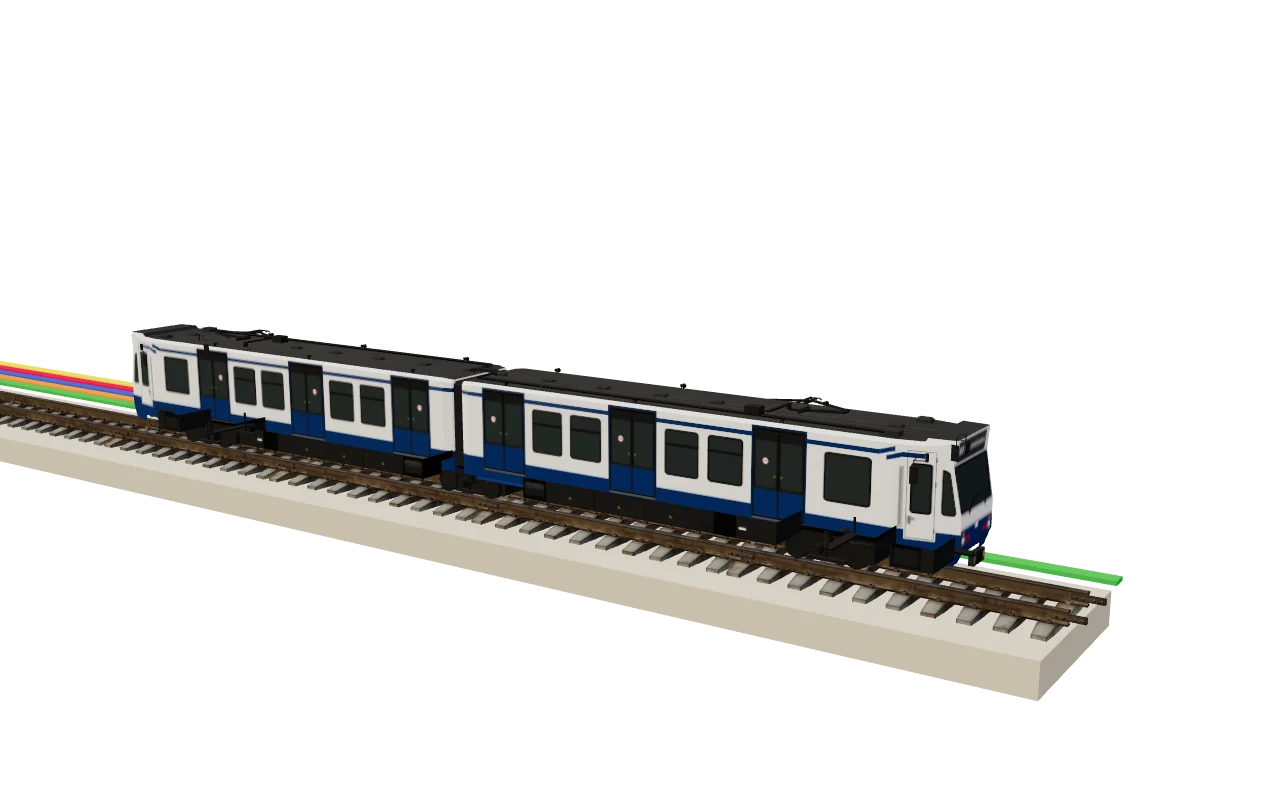
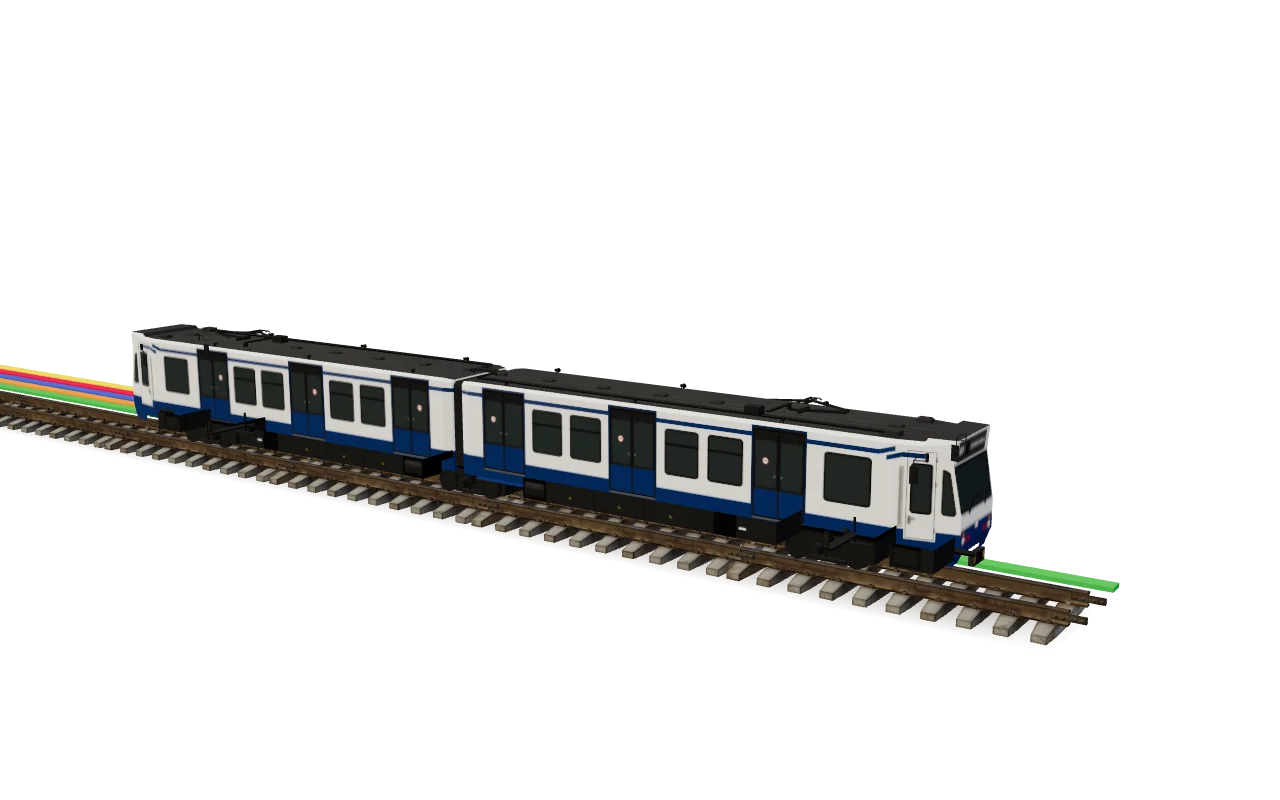
design(404): rails without a bed; stations as big links
- The block of ballast under the rails is gone: the track now stands on
  a soft shadow (a gradient on a plane, no shadow maps), the five line
  colours along it as before. The three still images are rendered again.
- Every station in the list, the search results and "Jouw stations" is
  now one link over the whole row (name, lines, an arrow), at least
  44 px high, instead of a 24 px name: easy to hit with a thumb. Hover,
  focus and press show on the row. "Bedoelde je" links get more height.

Changed region(s): [[0.0, 0.4375, 0.875, 0.875]]

diff --git a/frontend/src/seo/notFound.ts b/frontend/src/seo/notFound.ts
@@ -188,7 +188,7 @@ export function notFoundHtml(assets: NotFoundAssets): string {
   const data = JSON.stringify({ stations, nicknames: nick }).replace(/</g, "\\u003c");
   const list = (lang: "nl" | "en") =>
     STATION_NAMES.map(
-      (name) => `<li><a href="${stationPath(stationSlug(name), lang)}">${escape(displayName(name))}</a> <span class="lines">${linesAt(name).map(badge).join(" ")}</span></li>`,
+      (name) => `<li><a class="st-link" href="${stationPath(stationSlug(name), lang)}"><span class="st-name">${escape(displayName(name))}</span> <span class="lines">${linesAt(name).map(badge).join(" ")}</span></a></li>`,
     ).join("\n            ");
   const track = METRO_LINES.map(
     ({ line }, i) => `<line x1="10" y1="${150 + i * 9}" x2="${560 - i * 26}" y2="${150 + i * 9}" stroke="${LINE_COLORS[line]}" stroke-width="5" stroke-linecap="round"/>`,
@@ -258,7 +258,7 @@ export function notFoundHtml(assets: NotFoundAssets): string {
       .search-row input { flex: 1; min-width: 0; min-height: 2.75rem; padding: 0 0.85rem; border: 1px solid var(--muted); border-radius: 0.5rem; background: var(--bg); color: var(--ink); font: inherit; }
       .search-row button { min-height: 2.75rem; padding: 0 1rem; border: 0; border-radius: 0.5rem; background: #1f3a68; color: #fff; font: 600 1rem/1 system-ui, sans-serif; cursor: pointer; }
       .results, .mine ul, ul.stations { list-style: none; margin: 0; padding: 0; }
-      .results li, .mine li { padding: 0.15rem 0; }
+      .results li, .mine li { padding: 0; }
       .status { min-height: 1.4em; margin: 0.35rem 0 0; color: var(--muted); font-size: 0.9rem; }
       .mine { margin: 0 0 1.25rem; }
       .mine h2 { margin: 0 0 0.35rem; font-size: 1.05rem; color: var(--accent); }
@@ -359,9 +359,20 @@ export function notFoundHtml(assets: NotFoundAssets): string {
       @media (pointer: fine), (pointer: none) { .coarse { display: none !important; } }
       details.all { margin: 0 0 2rem; }
       details.all > ul.stations { padding: 0.5rem 1rem 1rem; }
-      ul.stations { columns: 3 13rem; column-gap: 1.5rem; padding-bottom: 0.75rem; font-size: 0.95rem; }
-      ul.stations li { break-inside: avoid; }
-      ul.stations a, .results a, .mine a, .suggest a, figcaption a, footer a, .report a { display: inline-block; min-height: 24px; line-height: 24px; }
+      ul.stations { columns: 3 15rem; column-gap: 1.25rem; padding-bottom: 0.75rem; }
+      ul.stations li, .results li, .mine li { break-inside: avoid; }
+      /* A station: the whole row is the link (name, lines, arrow), at least
+         44 px high, so it's easy to hit with a thumb. */
+      .st-link { display: flex; align-items: center; gap: 0.6rem; min-height: 2.75rem; padding: 0.3rem 0.6rem; margin: 0 -0.6rem; border-radius: 0.55rem; color: var(--ink); text-decoration: none; -webkit-tap-highlight-color: transparent; transition: background-color 0.15s ease; }
+      .st-link::after { content: ""; flex: none; width: 0.5rem; height: 0.5rem; margin-left: auto; border: solid var(--muted); border-width: 2px 2px 0 0; transform: rotate(45deg); opacity: 0.6; }
+      .st-name { font-weight: 600; color: var(--link); text-decoration: underline; text-decoration-thickness: 1px; text-decoration-color: color-mix(in srgb, var(--link) 35%, transparent); text-underline-offset: 3px; }
+      .st-link:hover, .st-link:focus-visible { background: var(--bg); }
+      .results .st-link:hover, .mine .st-link:hover, .results .st-link:focus-visible, .mine .st-link:focus-visible { background: var(--card); }
+      .st-link:hover .st-name { text-decoration-color: currentColor; }
+      .st-link:active { background: var(--line); }
+      .st-link:hover::after { opacity: 1; }
+      .suggest a, figcaption a, footer a, .report a { display: inline-block; min-height: 24px; line-height: 24px; }
+      .suggest a { padding: 0.35rem 0; }
       .lines { white-space: nowrap; }
       .badge { display: inline-block; min-width: 1.7em; padding: 0 0.25em; border-radius: 0.2rem; color: #111; font-size: 0.72rem; font-weight: 700; line-height: 1.5; text-align: center; vertical-align: 0.1em; }
       .l50 { background: #3CB44B; } .l51 { background: #F58231; } .l52 { background: #4363D8; color: #fff; } .l53 { background: #E6194B; color: #fff; } .l54 { background: #FFE119; }

diff --git a/frontend/src/notfound/scene.ts b/frontend/src/notfound/scene.ts
@@ -2,6 +2,7 @@ import {
   ACESFilmicToneMapping,
   Box3,
   BoxGeometry,
+  CanvasTexture,
   Color,
   DirectionalLight,
   Group,
@@ -9,10 +10,12 @@ import {
   InstancedMesh,
   Matrix4,
   Mesh,
+  MeshBasicMaterial,
   MeshStandardMaterial,
   type Material,
   type Object3D,
   PerspectiveCamera,
+  PlaneGeometry,
   Raycaster,
   Scene,
   Spherical,
@@ -151,9 +154,9 @@ function railsFrom(scene: Object3D): Rails | null {
 }
 
 /**
- * The track: a ballast bed, the rails (the model, repeated along the bed,
- * to the train's scale; or simple boxes if it didn't load) and the five
- * lines as a strip along the far side.
+ * The track: the rails (the model, repeated, to the train's scale; or
+ * simple boxes if it didn't load) with no bed under them, a soft shadow
+ * that grounds them, and the five lines as a strip along the far side.
  */
 function buildTrack(dark: boolean, gauge: number, rails: Rails | null): Group {
   const group = new Group();
@@ -195,13 +198,11 @@ function buildTrack(dark: boolean, gauge: number, rails: Rails | null): Group {
     }
   }
 
-  // The ballast: up to just above the sleepers' bottom, with a shoulder.
-  const ballast = new MeshStandardMaterial({ color: dark ? "#2a2f3a" : "#cfc6b4", roughness: 1 });
-  const bedHalf = Math.max(sleeperHalf * 1.6, 0.9);
-  const bedTop = sleeperBottom + gauge * 0.06;
-  const bed = new Mesh(new BoxGeometry(length, 0.3, bedHalf * 2), ballast);
-  bed.position.set(startX + length / 2, bedTop - 0.15, 0);
-  group.add(bed);
+  // A soft shadow under the sleepers (a gradient, no shadow maps): the
+  // track stands on something without a block under it.
+  const bedTop = sleeperBottom;
+  const bedHalf = sleeperHalf * 1.6;
+  group.add(softShadow(startX, length, sleeperHalf * 2.6, bedTop - 0.005, dark));
 
   // The five lines, as a strip along the far side of the track.
   LINE_COLORS.forEach((c, i) => {
@@ -214,6 +215,37 @@ function buildTrack(dark: boolean, gauge: number, rails: Rails | null): Group {
   });
 
   return group;
+}
+
+/** A blurred dark band on the ground, fading out across and at the far end. */
+function softShadow(startX: number, length: number, width: number, y: number, dark: boolean): Mesh {
+  const c = document.createElement("canvas");
+  c.width = 256;
+  c.height = 64;
+  const g = c.getContext("2d")!;
+  const across = g.createLinearGradient(0, 0, 0, 64);
+  const ink = dark ? "0, 0, 0" : "60, 45, 25";
+  across.addColorStop(0, `rgba(${ink}, 0)`);
+  across.addColorStop(0.5, `rgba(${ink}, ${dark ? 0.55 : 0.3})`);
+  across.addColorStop(1, `rgba(${ink}, 0)`);
+  g.fillStyle = across;
+  g.fillRect(0, 0, 256, 64);
+  // Fade out along the far end and at the end of the rails.
+  g.globalCompositeOperation = "destination-in";
+  const along = g.createLinearGradient(0, 0, 256, 0);
+  along.addColorStop(0, "rgba(0,0,0,0)");
+  along.addColorStop(0.35, "rgba(0,0,0,1)");
+  along.addColorStop(0.985, "rgba(0,0,0,1)");
+  along.addColorStop(1, "rgba(0,0,0,0)");
+  g.fillStyle = along;
+  g.fillRect(0, 0, 256, 64);
+  const tex = new CanvasTexture(c);
+  tex.colorSpace = SRGBColorSpace;
+  const mesh = new Mesh(new PlaneGeometry(length, width), new MeshBasicMaterial({ map: tex, transparent: true, depthWrite: false }));
+  mesh.rotation.x = -Math.PI / 2;
+  mesh.position.set(startX + length / 2, y, 0);
+  mesh.renderOrder = -1;
+  return mesh;
 }
 
 export async function mount(stage: HTMLElement, opts: SceneOptions): Promise<SceneHandle> {

diff --git a/frontend/src/notfound/page.ts b/frontend/src/notfound/page.ts
@@ -59,6 +59,18 @@ function link(st: StationData, lang: Lang): HTMLAnchorElement {
   return a;
 }
 
+/** A station as one big link: its name, its lines, an arrow (CSS). */
+function row(st: StationData, lang: Lang): HTMLAnchorElement {
+  const a = document.createElement("a");
+  a.className = "st-link";
+  a.href = stationHref(st, lang);
+  const name = document.createElement("span");
+  name.className = "st-name";
+  name.textContent = st.name;
+  a.append(name, " ", badges(st));
+  return a;
+}
+
 function badges(st: StationData): HTMLSpanElement {
   const span = document.createElement("span");
   span.className = "lines";
@@ -148,7 +160,7 @@ function init() {
         results.replaceChildren(
           ...hits.map((st) => {
             const li = document.createElement("li");
-            li.append(link(st, l), " ", badges(st));
+            li.append(row(st, l));
             return li;
           }),
         );
@@ -175,7 +187,7 @@ function init() {
       mineList.replaceChildren(
         ...mine.map((st) => {
           const li = document.createElement("li");
-          li.append(link(st, l), " ", badges(st));
+          li.append(row(st, l));
           return li;
         }),
       );

diff --git a/frontend/src/seo/routeHtml.test.ts b/frontend/src/seo/routeHtml.test.ts
@@ -241,6 +241,12 @@ describe("404 page", () => {
     }
   });
 
+  it("makes each station one big link, its lines inside it", () => {
+    const rows = page.match(/<a class="st-link" href="[^"]+"><span class="st-name">[^<]+<\/span> <span class="lines">(<span class="badge l5\d">5\d<\/span> ?)+<\/span><\/a>/g);
+    expect(rows).toHaveLength(STATION_NAMES.length * 2);
+    expect(page).toMatch(/\.st-link \{[^}]*min-height: 2\.75rem/);
+  });
+
   it("credits the 3D model as its license asks: title, author, source, license, changes", () => {
     for (const s of [MODEL.source, MODEL.authorUrl, MODEL.licenseUrl, MODEL.title, MODEL.author, "CC BY-NC-SA 4.0"]) {
       expect(page).toContain(s);
